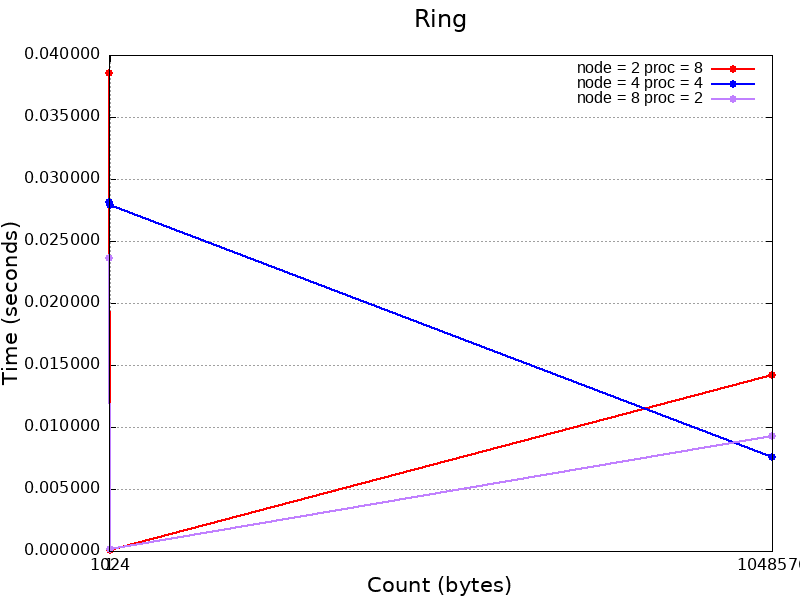
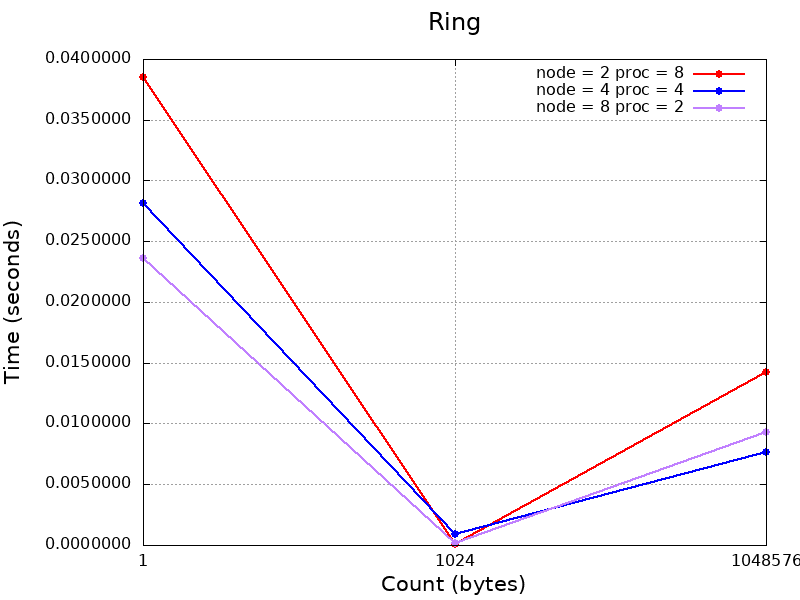
graph

diff --git a/lab1/graph/ring.py b/lab1/graph/ring.py
@@ -1,62 +1,48 @@
 import matplotlib.pyplot as plt
-import numpy as np
 
-# Загрузка данных из файлов
-def load_data(filename):
-    x, y = [], []
-    with open(filename, 'r') as f:
-        for line in f:
-            values = line.split()
-            if len(values) == 2:
-                x_value = float(values[0])
-                y_value = float(values[1])
-                # Игнорируем точки с y = 1024 и x = 0
-                if x_value != 0 and y_value != 1024:
-                    x.append(x_value)
-                    y.append(y_value)
-    return x, y
+# Данные из трех файлов
+data1 = [(1, 0.038559), (1024, 0.000085), (1048576, 0.01422)]
+data2 = [(1, 0.028127), (1024, 0.000892 ), (1048576, 0.007614)]
+data3 = [(1, 0.023617), (1024, 0.000143), (1048576, 0.009293)]
 
-# Загрузка данных из файлов
-x1, y1 = load_data('../ring_2node_8proc')
-x2, y2 = load_data('../ring_4node_4proc')
-x3, y3 = load_data('../ring_8node_2proc')
+# Разбираем данные на отдельные массивы для каждой серии
+x1, y1 = zip(*data1)
+x2, y2 = zip(*data2)
+x3, y3 = zip(*data3)
 
-# Отладочные выводы
-print(f"Data from '../ring_2node_8proc': {len(x1)} points")
-print(f"Data from '../ring_4node_4proc': {len(x2)} points")
-print(f"Data from '../ring_8node_2proc': {len(x3)} points")
+# Создаем график
+plt.figure(figsize=(8, 6))  # Размер изображения
 
-# Настройка графика
-plt.figure(figsize=(8, 6))
-plt.title('Ring', fontsize=18)
-plt.xlabel('Count (bytes)', fontsize=16)
-plt.ylabel('Time (seconds)', fontsize=16)
-plt.grid()
+# Построение каждой линии
+plt.plot(x1, y1, label="node = 2 proc = 8", marker='o', color='red')
+plt.plot(x2, y2, label="node = 4 proc = 4", marker='o', color='blue')
+plt.plot(x3, y3, label="node = 8 proc = 2", marker='o', color='purple')
 
-# Интерполяция для более плавной линии
-x_values = [1, 1024, 1048576]
-for x_data, y_data, label, color in zip(
-    [x1, x2, x3], 
-    [y1, y2, y3], 
-    ['node = 2 proc = 8', 'node = 4 proc = 4', 'node = 8 proc = 2'], 
-    ['red', 'blue', 'purple']
-):
-    # Интерполяция
-    x_interp = np.linspace(min(x_data), max(x_data), 100)
-    y_interp = np.interp(x_interp, x_data, y_data)
-    plt.plot(x_interp, y_interp, label=label, linewidth=2, color=color)
+# Установка меток осей
+plt.xlabel("Count (bytes)")
+plt.ylabel("Time (seconds)")
 
-# Установка формата осей
-plt.xscale('linear')
-plt.xlim(1, 1048576)  # Устанавливаем диапазон по оси X от 1 до 1048576
-plt.ylim(bottom=0)    # Устанавливаем нижний предел по оси Y
+# Использование логарифмической шкалы для оси X
+plt.xscale('log')
 
-# Установка меток оси X
-plt.xticks([1, 1024, 1048576])  # Явное указание меток по оси X
+# Установка меток по оси X
+plt.xticks([1, 1024, 1048576], ['1', '1024', '1048576'])
 
-# Добавление легенды
-plt.legend(fontsize=12)
+# Установка диапазона по оси Y
+#plt.ylim(0, 0.03)  # Ограничение по Y
 
-# Сохранение графика
-plt.savefig('ring.png')
+# Настройка формата меток по оси Y
+plt.gca().yaxis.set_major_formatter(plt.FormatStrFormatter('%.6f'))
+
+# Включаем сетку
+plt.grid(True)
+
+# Заголовок и легенда
+plt.title("Ring")
+plt.legend()
+
+# Сохраняем график как изображение
+plt.savefig('ring_plot.png')
+
+# Показать график
 plt.show()
